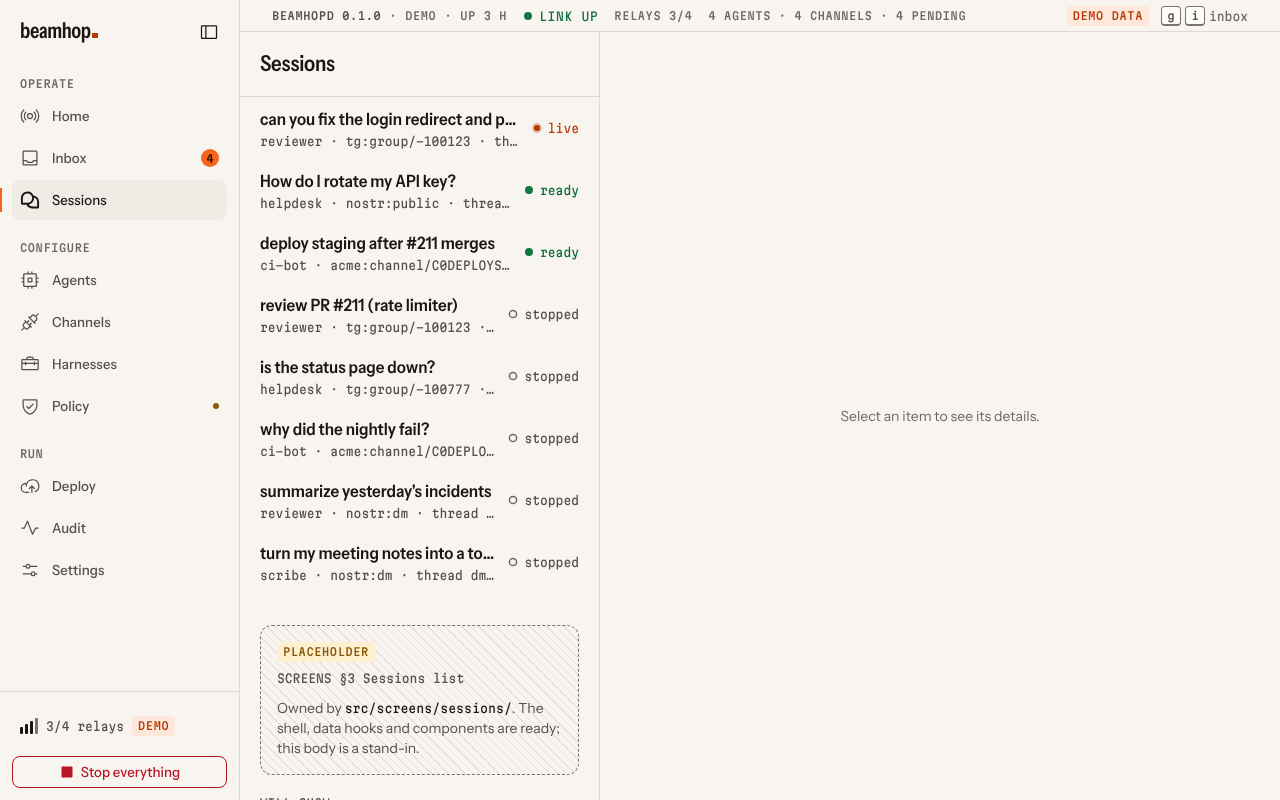
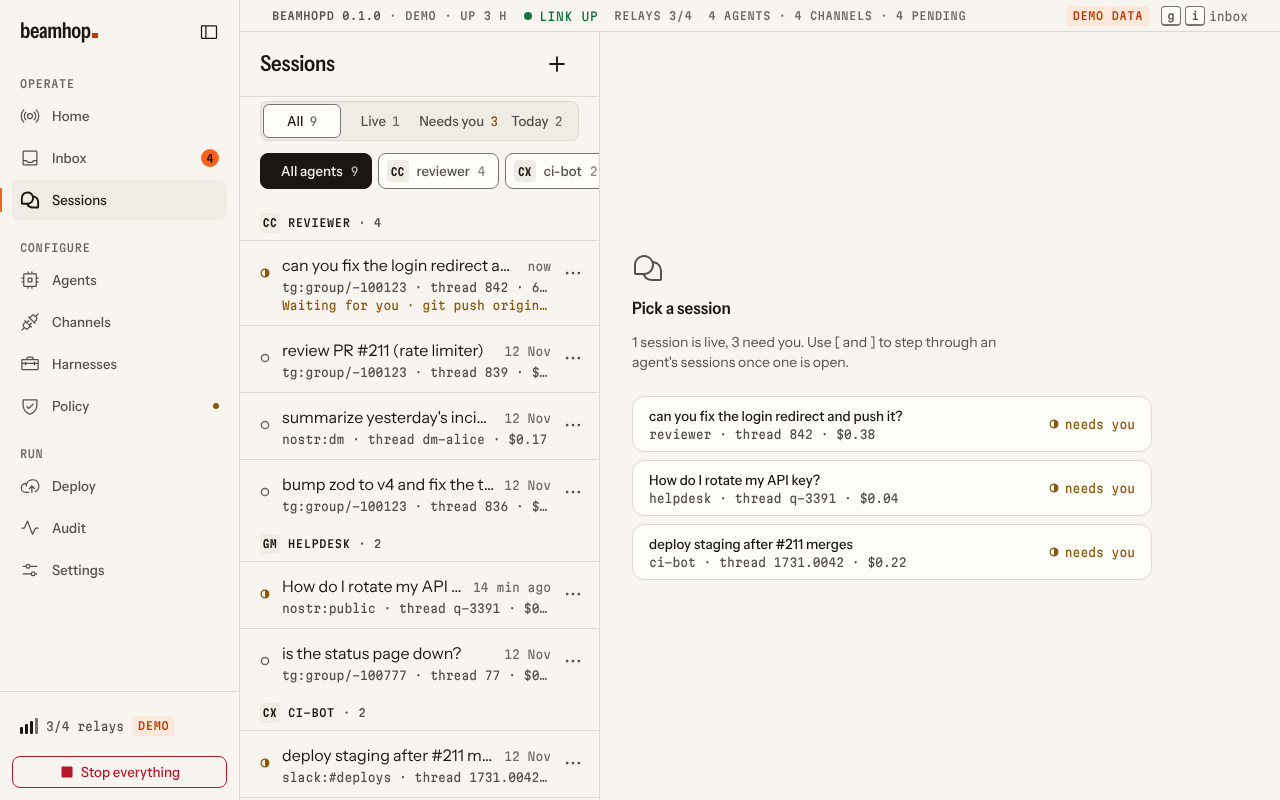
pwa(sessions): rail alignment, pick pane, list times, screenshots
Claude-Session: https://claude.ai/code/session_01LZES8nkUApYYjtVxgARUUV

diff --git a/apps/pwa/src/screens/sessions/SessionsScreen.tsx b/apps/pwa/src/screens/sessions/SessionsScreen.tsx
@@ -20,7 +20,7 @@ import type { LampState } from '../../api/derive.ts';
 import { harnessMonogram, sessionLamp, targetLabel, useApi, useMutationApi } from '../../api/index.ts';
 import { t } from '../../i18n/index.ts';
 import { cx } from '../../lib/cx.ts';
-import { ago, since, usd, when } from '../../lib/format.ts';
+import { ago, clock, shortDate, since, usd } from '../../lib/format.ts';
 import { haptic } from '../../lib/haptics.ts';
 import { announce } from '../../lib/live.ts';
 import { useExpanded } from '../../lib/media.ts';
@@ -64,6 +64,13 @@ const write = (k: string, v?: string) => {
   } catch {
     /* ignore */
   }
+};
+
+/** Compact list time: `4 min ago` under an hour, `10:42` today, `12 Nov` before. */
+const rowTime = (iso: string, now: number) => {
+  const d = new Date(iso);
+  if (now - d.getTime() < 3_600_000) return ago(iso, now);
+  return new Date(now).toDateString() === d.toDateString() ? clock(d) : shortDate(d);
 };
 
 const FILTERS: SessionFilter[] = ['all', 'live', 'needs-you', 'today'];
@@ -186,9 +193,7 @@ const SessionRow = ({
             <span className="flex items-baseline gap-2">
               <span className="min-w-0 flex-1 truncate type-body-strong text-ink">{s.title}</span>
               <span className="shrink-0 type-meta text-ink-3 tabular-nums">
-                {now - new Date(s.lastActivityAt).getTime() < 3_600_000
-                  ? ago(s.lastActivityAt, now)
-                  : when(s.lastActivityAt, new Date(now))}
+                {rowTime(s.lastActivityAt, now)}
               </span>
             </span>
             <MetaLine
@@ -476,17 +481,54 @@ export const SessionsScreen = () => {
     <SplitView
       hasDetail={hasDetail}
       list={list}
-      empty={<NoSelection live={counts.live} needs={counts['needs-you']} />}
+      empty={
+        <NoSelection
+          live={counts.live}
+          needs={counts['needs-you']}
+          lampOf={lampOf}
+          attention={sessions
+            .filter((s) => needsYou.has(s.id) || s.status === 'running' || s.status === 'queued')
+            .slice(0, 4)}
+        />
+      }
     >
       <Outlet />
     </SplitView>
   );
 };
 
-const NoSelection = ({ live, needs }: { live: number; needs: number }) => (
+const NoSelection = ({
+  live,
+  needs,
+  attention,
+  lampOf,
+}: {
+  live: number;
+  needs: number;
+  attention: SessionView[];
+  lampOf: (s: SessionView) => LampState;
+}) => (
   <div id="bh-main-content" className="flex h-full flex-col justify-center gap-3 px-8">
     <ChatsTeardrop size={32} aria-hidden="true" className="text-ink-2" />
     <h2 className="type-title-3 text-ink">{t('sessions.pick.title')}</h2>
     <p className="max-w-[44ch] type-body-sm text-ink-2">{t('sessions.pick.body', { live, needs })}</p>
+    {attention.length > 0 && (
+      <ul className="mt-3 flex max-w-[520px] flex-col gap-2" aria-label={t('sessions.pick.attention')}>
+        {attention.map((s) => (
+          <li key={s.id}>
+            <Link
+              href={`/sessions/${s.id}`}
+              className="flex min-h-14 items-center gap-3 rounded-lg border border-line bg-surface px-4 py-2 outline-none data-[hovered]:border-line-strong data-[focus-visible]:outline-2 data-[focus-visible]:outline-offset-2 data-[focus-visible]:outline-focus"
+            >
+              <span className="flex min-w-0 flex-1 flex-col">
+                <span className="truncate type-label text-ink">{s.title}</span>
+                <MetaLine as="span" items={[s.agent, `thread ${s.threadId}`, usd(s.usage.usd)]} />
+              </span>
+              <StatusDot state={lampOf(s)} />
+            </Link>
+          </li>
+        ))}
+      </ul>
+    )}
   </div>
 );

diff --git a/apps/pwa/src/screens/sessions/Transcript.tsx b/apps/pwa/src/screens/sessions/Transcript.tsx
@@ -79,11 +79,15 @@ const RailRow = ({
   children: ReactNode;
   kind: Block['kind'];
 }) => (
-  <li className="tx-block relative pl-[52px] expanded:pl-[60px]" data-kind={kind}>
+  <li
+    className="tx-block group/row relative pl-[52px] expanded:pl-[60px]"
+    data-kind={kind}
+    data-row={kind === 'tool' || kind === 'run' ? 'tool' : 'msg'}
+  >
     {showTime && (
       <time
         dateTime={at}
-        className="absolute top-[3px] left-0 w-9 text-right font-mono text-[11px] leading-4 text-ink-3 tabular-nums expanded:w-11"
+        className="absolute top-[3px] group-data-[row=tool]/row:top-[13px] pointer-coarse:group-data-[row=tool]/row:top-[15px] left-0 w-9 text-right font-mono text-[11px] leading-4 text-ink-3 tabular-nums expanded:w-11"
       >
         {clock(at)}
       </time>
@@ -91,7 +95,7 @@ const RailRow = ({
     <span
       aria-hidden="true"
       className={cx(
-        'absolute top-[10px] h-px bg-line-strong',
+        'absolute top-[10px] h-px bg-line-strong group-data-[row=tool]/row:top-[20px] pointer-coarse:group-data-[row=tool]/row:top-[22px]',
         showTime ? 'left-[40px] w-2 expanded:left-[48px]' : 'left-[44px] w-1 expanded:left-[52px]',
         fresh && 'tx-tick-new',
       )}
@@ -260,7 +264,7 @@ export const ToolRow = ({ tool, ctx, nested }: { tool: ToolItem; ctx: Transcript
   const target = stats ? tool.target.replace(/\s*\+\d+\s*[−-]\d+\s*$/, '') : tool.target;
   const tail = tool.status === 'running' ? tool.progress.slice(-6) : [];
   return (
-    <div className={cx(nested ? 'py-0' : 'pb-2')}>
+    <div className={cx(nested ? 'py-0' : 'pb-1')}>
       <RACButton
         aria-expanded={open}
         onPress={() => setOpen(!open)}
@@ -347,7 +351,7 @@ const ToolRun = ({ tools, ctx }: { tools: ToolItem[]; ctx: TranscriptCtx }) => {
     .filter(Boolean)
     .join(' · ');
   return (
-    <div className="pb-2">
+    <div className="pb-1">
       <RACButton
         aria-expanded={open}
         onPress={() => setOpen(!open)}

diff --git a/apps/pwa/src/api/mock/seed.ts b/apps/pwa/src/api/mock/seed.ts
@@ -630,7 +630,12 @@ export const seed = (now = Date.now()): MockState => {
       e(t0 - 1.0, { kind: 'tool_result', tool: { id: 'z4', name: 'Edit', ok: true, diff: zodDiff } }),
       e(t0 - 1.1, {
         kind: 'tool_call',
-        tool: { id: 'z5', name: 'Bash', title: 'Bash npm run typecheck', input: { command: 'npm run typecheck' } },
+        tool: {
+          id: 'z5',
+          name: 'Bash',
+          title: 'Bash npm run typecheck',
+          input: { command: 'npm run typecheck' },
+        },
       }),
       e(t0 - 1.9, {
         kind: 'tool_result',
@@ -691,13 +696,19 @@ export const seed = (now = Date.now()): MockState => {
         at: ago(now, m),
         kind: 'user',
         from: { principal: OWNER.principal, displayName: 'alice', role: 'owner' },
-        text: i === 0 ? 'turn my meeting notes into a todo list' : `next note: ${lines[i % lines.length]} (${i})`,
+        text:
+          i === 0 ? 'turn my meeting notes into a todo list' : `next note: ${lines[i % lines.length]} (${i})`,
       });
       list.push({
         seq: ++n,
         at: ago(now, m - 0.1),
         kind: 'tool_call',
-        tool: { id: `s${i}`, name: 'Read', title: `Read ~/notes/2026-11-${String((i % 28) + 1).padStart(2, '0')}.md`, input: {} },
+        tool: {
+          id: `s${i}`,
+          name: 'Read',
+          title: `Read ~/notes/2026-11-${String((i % 28) + 1).padStart(2, '0')}.md`,
+          input: {},
+        },
       });
       list.push({
         seq: ++n,

diff --git a/apps/pwa/e2e/sessions.spec.ts b/apps/pwa/e2e/sessions.spec.ts
@@ -38,10 +38,13 @@ test.describe('sessions list', () => {
     await expect(page.getByRole('heading', { name: /reviewer\s*· 4/i })).toBeVisible();
     const live = page.getByRole('radio', { name: /^Live, 1$/ });
     await live.click();
-    await expect(page.getByRole('link', { name: /can you fix the login redirect/ })).toBeVisible();
-    await expect(page.getByRole('link', { name: /review PR #211/ })).toHaveCount(0);
+    const rows = page.getByRole('list', { name: 'Sessions of reviewer' });
+    await expect(rows.getByRole('link', { name: /can you fix the login redirect/ })).toBeVisible();
+    await expect(rows.getByRole('link', { name: /review PR #211/ })).toHaveCount(0);
     await page.getByRole('radio', { name: /^Needs you/ }).click();
-    await expect(page.getByRole('link', { name: /How do I rotate my API key/ })).toBeVisible();
+    await expect(
+      page.getByRole('list', { name: 'Sessions of helpdesk' }).getByRole('link', { name: /How do I rotate/ }),
+    ).toBeVisible();
     // Agent rail narrows further; an empty result explains itself and offers a reset.
     await page.getByRole('radio', { name: /^scribe/ }).click();
     await expect(page.getByRole('heading', { name: 'No needs you sessions' })).toBeVisible();

diff --git a/apps/pwa/e2e/screenshots.spec.ts b/apps/pwa/e2e/screenshots.spec.ts
@@ -25,6 +25,9 @@ test('screenshot dark home + kitchen', async ({ page }, info) => {
     ['/', 'home-dark'],
     ['/_kitchen', 'kitchen-dark'],
     ['/inbox', 'inbox-dark'],
+    ['/sessions', 'sessions-dark'],
+    ['/sessions/ses_842', 'sessions_ses_842-dark'],
+    ['/sessions/ses_836', 'sessions_ses_836-dark'],
   ] as const) {
     await page.goto(`${path}?mock=1&still=1`);
     await expect(page.locator('#bh-main-content').first()).toBeVisible();
@@ -32,6 +35,14 @@ test('screenshot dark home + kitchen', async ({ page }, info) => {
     await page.waitForTimeout(600);
     await page.screenshot({ path: `screenshots/${info.project.name}/${name}.png` });
   }
+});
+
+test('screenshot ended session (merge / open PR)', async ({ page }, info) => {
+  await page.goto('/sessions/ses_836?mock=1&still=1');
+  await expect(page.locator('#bh-main-content').first()).toBeVisible();
+  await page.evaluate(() => document.fonts.ready);
+  await page.waitForTimeout(600);
+  await page.screenshot({ path: `screenshots/${info.project.name}/sessions_ses_836.png` });
 });
 
 test('screenshot panic band', async ({ page }, info) => {

diff --git a/apps/pwa/src/screens/sessions/SessionScreen.tsx b/apps/pwa/src/screens/sessions/SessionScreen.tsx
@@ -467,7 +467,7 @@ export const SessionScreen = () => {
   const footer = (
     <div className="relative">
       {!pinned && (
-        <div className="pointer-events-none absolute -top-14 right-0 left-0 flex justify-center">
+        <div className="pointer-events-none absolute -top-14 right-0 left-0 flex justify-end px-gutter expanded:px-8">
           <div className="pointer-events-auto">
             <JumpPill count={unseen} onPress={() => scrollToBottom(!reduce)} />
           </div>
